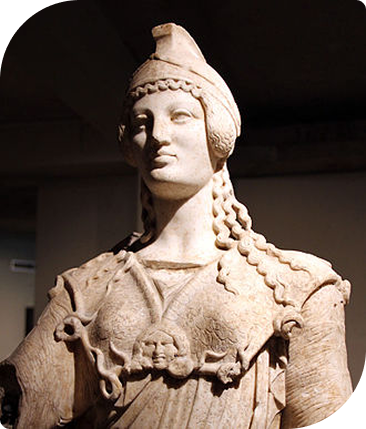
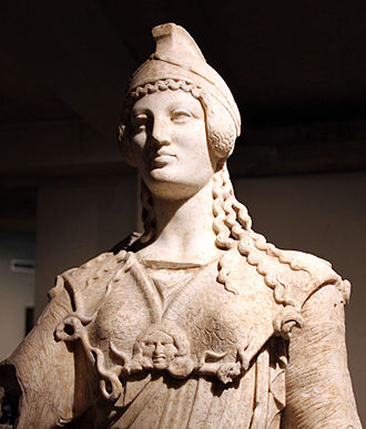
Co-authored-by: MaxDonder <MaxDonder@users.noreply.github.com> Co-authored-by: lousamy55-gif <lousamy55-gif@users.noreply.github.com>

diff --git a/pages/presentation.html b/pages/presentation.html
@@ -11,6 +11,7 @@
     <link rel="stylesheet" href="/assets/style/button.css">
     <link rel="stylesheet" href="/assets/style/header.css">
     <link rel="stylesheet" href="/assets/style/footer.css">
+    <link rel="stylesheet" href="/assets/style/presentation-style.css">
 
     <link rel="preconnect" href="https://fonts.googleapis.com">
     <link rel="preconnect" href="https://fonts.gstatic.com" crossorigin>
@@ -22,7 +23,7 @@
 <body>
     <header class="header1"> <!-- avec image logo qui servira de bouton d'accueil sur la gauche-->
         <a href="/"><img src="/assets/images/logo_museesaintecroix.png" alt="logo musée" width="200"></a>
-        <nav class="taille">
+        <nav class="main-nav taille">
             <ul>
                 <li class="déroulant"><a>Découvrir &ensp;</a>
                     <ul class="sous">
@@ -69,22 +70,53 @@
             <a href="https://www.instagram.com/museesaintecroixpoitiers/"><img src="/assets/images/instagram vert.svg" alt="logo instagram" width="50px"></a>
         </div>
     </header>
-    <main>
-        <section class="fil-arianne">
-            <img src="/assets/images/file ariane.svg" alt="logo home">
-            <p>bouton</p>
+    <main class="marge">
+        <section class="fil-ariane">
+            <a href="/index.html"><img src="/assets/images/file ariane.svg"></a>
+            <nav>
+                <ul>
+                    <li><a href="#">Découvir</a></li>
+                    <li>/</li>
+                    <li><a href="/pages/collection.html">Collection</a></li>
+                    <li>/</li>
+                    <li><a href="/pages/presentation.html">Présenatation par Département</a></li>
+                </ul>
+            </nav>
         </section>
-            <h1>La Présentation par Département</h1>
-            <div>
+        <h1>La Présentation par Département</h1>
+        <div>
+            <section class="carr-fleches">
                 <img src="/assets/images/departement/fleche-gauche.svg" alt="flèche gauche">
                 <img src="/assets/images/departement/fleche-droite.svg" alt="flèche droite">
-                <img src="/assets/images/departement/amphi.jpg" alt="Préhistoire">
-                <img src="/assets/images/departement/truc_de_fer.jpg" alt="Antiquité">
-                <img src="/assets/images/departement/pillier.png" alt="Moyen-Age">
-                <h6>Jean-Claude Golvin, "L’Amphithéâtre de Poitiers",
-Aquarelle (détail), 2007.</h6>
-            </div>
-            
+            </section>
+            <section class="carr-images">
+                <figure>
+                    <img src="/assets/images/departement/amphi.jpg" alt="Préhistoire">
+                    <figcaption><h6>Jean-Claude Golvin, "L’Amphithéâtre de Poitiers",
+                        Aquarelle (détail), 2007.</h6></figcaption>
+                </figure>
+                <img class="carr-autre" src="/assets/images/departement/truc_de_fer.jpg" alt="Antiquité">
+                <img class="carr-autre" src="/assets/images/departement/pillier.png" alt="Moyen-Age">
+            </section>
+        </div>
+        <h2>L’ANTIQUITÉ GALLO-ROMAINE (1er S. AV. J.-C. – 5e S.)</h2>
+        <article class="tresor">
+            <img src="/assets/images/departement/pièce_fer.png" alt="trésor de Chevanceaux">
+            <p>Présentées autour des vestiges gallo-romains mis au jour lors de la construction du musée, 
+            de riches collections antiques témoignent du passé prestigieux de Limonum, nom antique de Poitiers. <br>
+            Le trésor de Chevanceaux rappelle que les Pictons (un des peuples de Gaule) frappèrent monnaie, 
+            avant que ne s’impose le monnayage des empereurs. Des offrandes déposées dans une tombe d’Antran évoquent 
+            la romanisation du Poitou dès l’époque d’Auguste.
+            </p>
+        </article>
+        <article class="athena">
+            <img src="/assets/images/departement/statueathena.png" alt="statue Athéna de Poitiers">
+            <p>La riche collection lapidaire d’où se détache la statue de marbre d’Athéna, d’inspiration grecque, 
+            née des mains d’un artiste de Rome à l’époque augustéenne, renvoie à l’apogée de la capitale pictonne. 
+            La verrerie tient une belle place au sein des collections, issue pour l’essentiel de la nécropole des Dunes.
+            </p>
+        </article>
+    </main>
     <footer>
         <div class="footer-top">
             <div>
@@ -121,6 +153,5 @@ Aquarelle (détail), 2007.</h6>
             <a href="/pages/politique.html">Politique de Confidentialité</a>
         </div>
     </footer>
-    </main>
 </body>
 </html>

diff --git a/assets/style/presentation-style.css b/assets/style/presentation-style.css
@@ -1,3 +1,108 @@
-.fil-arianne {
+.marge{
+    margin : 80px;
+}
+
+.fil-ariane{
     display: flex;
+    justify-content: left;
+}
+
+.fil-ariane nav{
+    padding-left: 10px;
+    padding-right: 20px;
+    border: none;
+    border-top-right-radius: 40px;
+    background-color: var(--color);
+
+}
+
+.fil-ariane img{
+    width: 30px;
+}
+
+.fil-ariane ul{
+    display: flex;
+    gap: 2px;
+    margin-top: 15p;
+    color: rgb(221, 210, 210);
+}
+
+.fil-ariane a{
+    color: rgb(221, 210, 210);
+    list-style-type:none;
+    text-decoration: none;
+}
+
+
+h1{
+    color: var(--color);
+    display: flex;
+    justify-content: center;
+    margin-top: 100px;
+    margin-bottom: 30px;
+}
+
+div img{
+    border-top-left-radius: 25%;
+    border-top-right-radius: 3%;
+    border-bottom-left-radius: 3%;
+    border-bottom-right-radius: 25%;
+}
+
+.carr-fleches{
+    display: flex;
+    justify-content: flex-end;
+}
+
+.carr-images {
+    display: flex;
+}
+
+.carr-autre {
+    justify-content: center;
+    align-items: center;
+    opacity: 50%;
+    height: 250px;
+    width: 350px;
+}
+
+h2{
+    margin: 60px 0px;
+}
+
+article{
+    display: flex;
+    justify-content: center;
+    align-items: center;
+    margin-bottom: 100px;
+}
+
+.tresor img{
+    margin-right: 100px;
+    border-top-left-radius: 25%;
+    border-top-right-radius: 3%;
+    border-bottom-left-radius: 3%;
+    border-bottom-right-radius: 25%;
+}
+
+.athena img{
+    margin-left: 100px;
+    border-top-left-radius: 25%;
+    border-top-right-radius: 3%;
+    border-bottom-left-radius: 3%;
+    border-bottom-right-radius: 25%;
+}
+
+/*
+main article img, main div img{
+    margin-left: 0px;
+    margin-right: 100px;
+    border-top-left-radius: 25%;
+    border-top-right-radius: 3%;
+    border-bottom-left-radius: 3%;
+    border-bottom-right-radius: 25%;
+}*/
+
+.athena img{
+    order: 2;
 }

diff --git a/assets/style/header.css b/assets/style/header.css
@@ -11,12 +11,13 @@
 }
 
 .header1 ul{
-  list-style: none
+  list-style: none;
+  display: flex;
+  gap: 50px;
 }
 
 .header1 li{
   font-size: 25px;
-  display: inline-block;
   color: var(--color);
   font-weight: bold;
 }
@@ -31,29 +32,28 @@
 
 /* menu déroulant le vrai*/
 
-nav{
+nav.main-nav{
   width: 100%;
   position: sticky;
 }
 
-nav ul{
+nav.main-nav ul{
     list-style-type: none;
+    
 }
 
-nav ul li{
-    float: left;
-    width: 19%;
+nav.main-nav ul li{
     text-align: left;
     position: relative;
 }
 
-nav ul::after{
+nav.main-nav ul::after{
     content: "";
     display: table;
     clear: both;
 }
 
-nav a{
+nav.main-nav a{
     display: block;
     text-decoration: none;
     color: var(--color);
@@ -61,36 +61,36 @@ nav a{
     padding: 10px 0px;
 }
 
-nav a:hover{
+nav.main-nav a:hover{
     color: rgb(0, 0, 0);
     border-bottom: 2px solid gold;
 }
 
-.sous{
+.main-nav .sous{
     display: none;
     box-shadow: 2px 2px 2px #c7c7c7;
     background-color: white;
     position: absolute;
-    width: 100%;
+    width: 300%;
     z-index: 1000;
 }
-nav > ul li:hover .sous{
+nav.main-nav > ul li:hover .sous{
     display: block;
 }
-.sous li{
+.main-nav .sous li{
     float: none;
     width: 100%;
     text-align: left;
 }
-.sous a{
+.main-nav .sous a{
     padding: 10px;
     border-bottom: none;
 }
-.sous a:hover{
+.main-nav .sous a:hover{
     border-bottom: none;
     background-color: RGBa(200,200,200,0.1);
 }
-.deroulant > a::after{
+.main-nav .deroulant > a::after{
     content:" ▼";
     font-size: 12px;
 }

diff --git a/index.html b/index.html
@@ -22,7 +22,7 @@
 <body>
     <header class="header1"> <!-- avec image logo qui servira de bouton d'accueil sur la gauche-->
         <a href="/"><img src="assets/images/logo_museesaintecroix.png" alt="logo musée" width="200"></a>
-        <nav class="taille">
+        <nav class="main-nav taille">
             <ul>
                 <li class="déroulant"><a>Découvrir &ensp;</a>
                     <ul class="sous">
@@ -31,7 +31,6 @@
                         <li><a href="/pages/collection.html">Les Collections</a></li>
                         <li><a href="#">Les Expositions passées</a></li>
                         <li><a href="#">Les Actualités</a></li>
-
                     </ul>
                 </li>
                 <li class="déroulant"><a>Visiter &ensp;</a>

diff --git a/assets/style/style.css b/assets/style/style.css
@@ -1,13 +1,13 @@
 .marge{
     margin : 80px;
 }
-/*
+
 html, body {
     margin: 0;
     padding: 0;
     overflow-x: hidden;
 }
-*/
+
 /*Accueil*/
 .accueil {
   background-image: url(/assets/images/museesaintecroix.webp);
@@ -42,7 +42,7 @@ body {
 }
 
 .image-top-left {
-  margin-left: 80px;
+  margin-left: 100px;
   margin-right: 0px;
   border-top-left-radius: 25%;
   border-top-right-radius: 0%;

diff --git a/assets/style/button.css b/assets/style/button.css
@@ -31,14 +31,13 @@
 .bouton-cta.bouton-cta a:hover{
   color: white;
   background-color: var(--color);
-
 }
 
 .nav-centrale {
   background-color: #F1F1DC;
   display: flex;
   justify-content: center;
-  gap: 200px;   
+  gap: 100px;   
   padding: 50px;
 }
 
